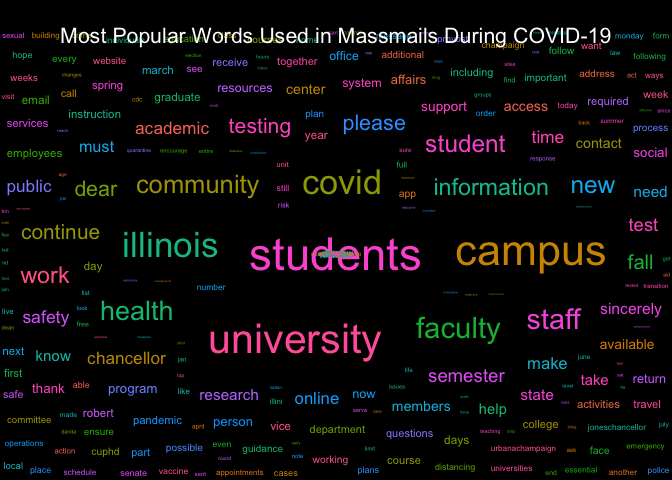
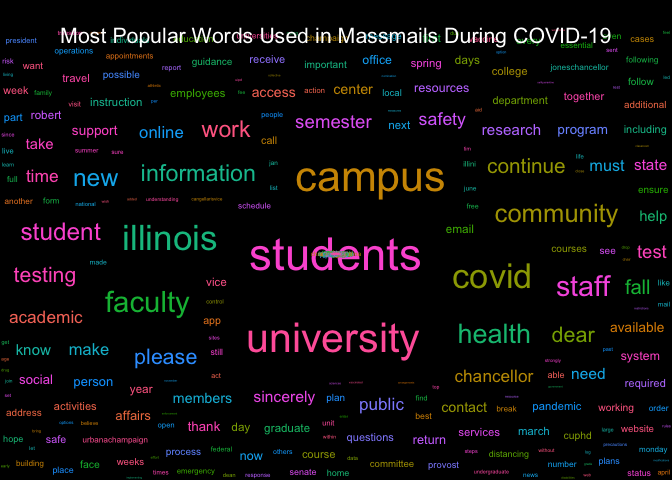
Re-build README.Rmd and Graphs

diff --git a/README.md b/README.md
@@ -17,7 +17,7 @@ The archive may be viewed here:
 
 <https://massmail.illinois.edu/massmailArchive>
 
-Data has **1330** observations and **7** variables:
+Data has **1331** observations and **7** variables:
 
   - `datetime`: Date and time when the email was sent in the form of
     `YYYY-MM-DD HMS` with either CDT or CST.
@@ -210,16 +210,16 @@ head(most_popular_words, 10) %>%
 
 | word        | freq |
 | :---------- | ---: |
-| students    |  917 |
-| university  |  866 |
+| students    |  919 |
+| university  |  869 |
 | campus      |  827 |
-| illinois    |  569 |
-| covid       |  524 |
-| faculty     |  473 |
-| community   |  466 |
+| illinois    |  570 |
+| covid       |  525 |
+| faculty     |  475 |
+| community   |  468 |
 | information |  397 |
-| health      |  394 |
-| staff       |  378 |
+| health      |  395 |
+| staff       |  380 |
 
 #### Wordcloud
 
